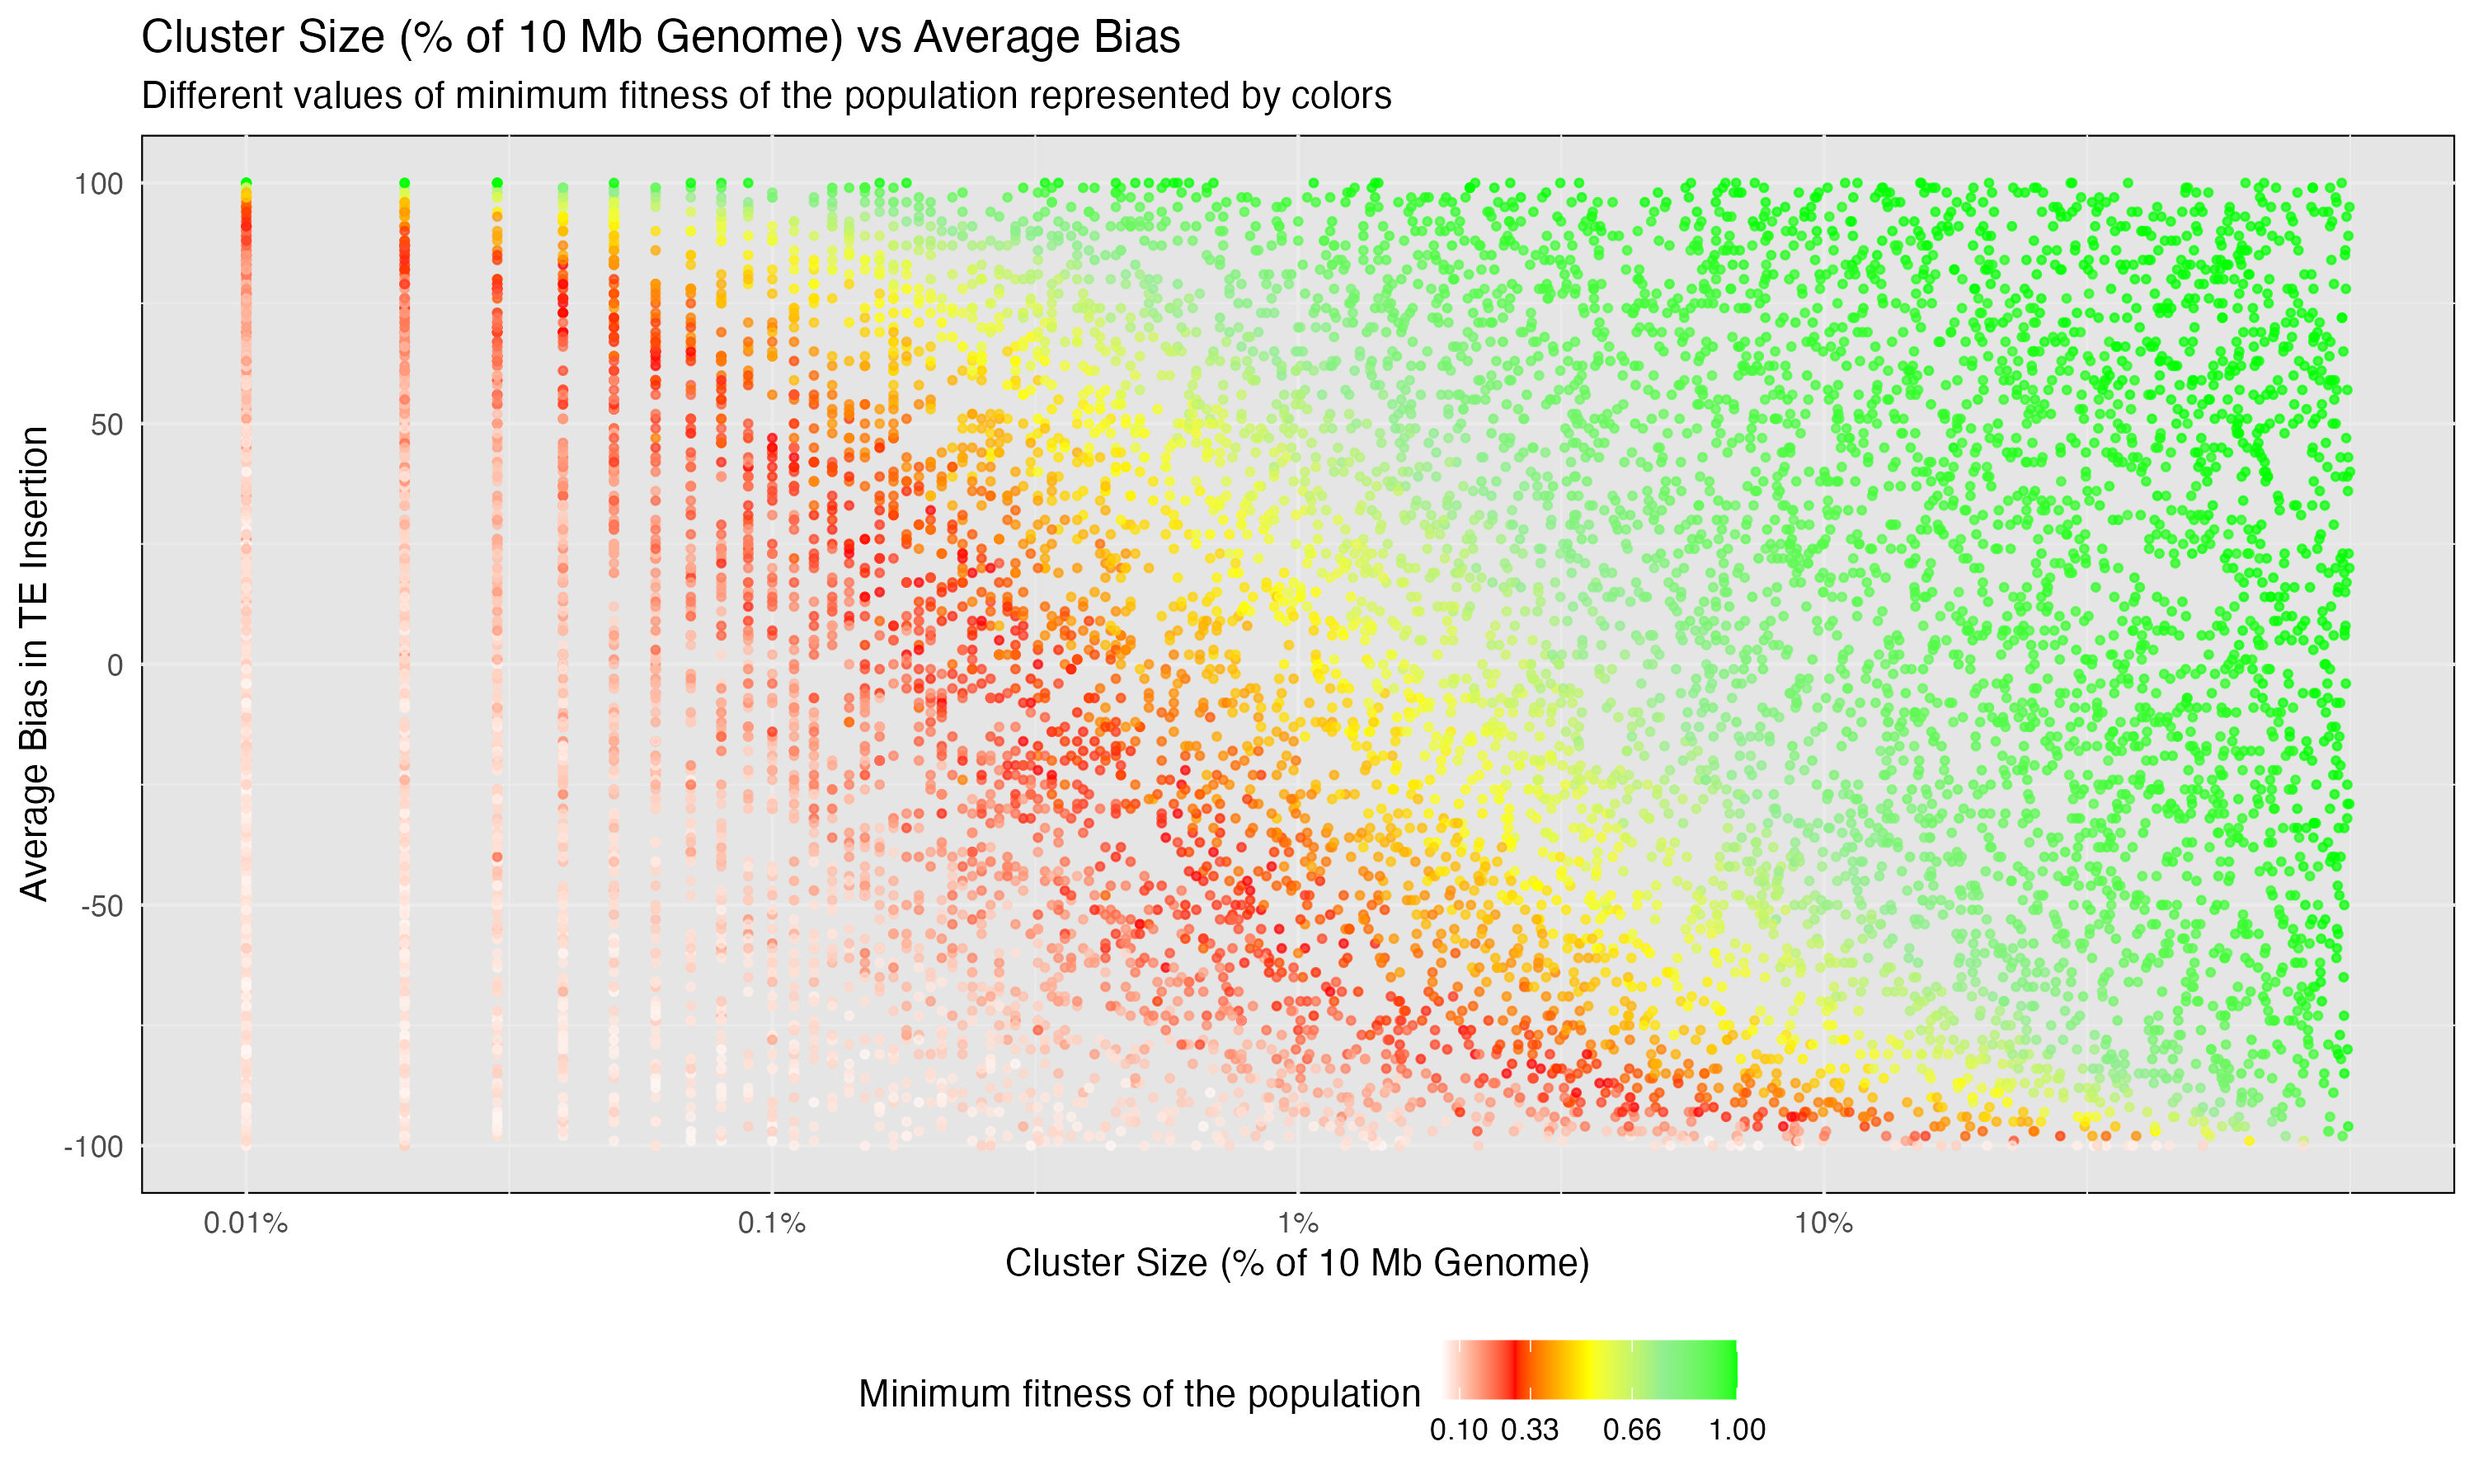
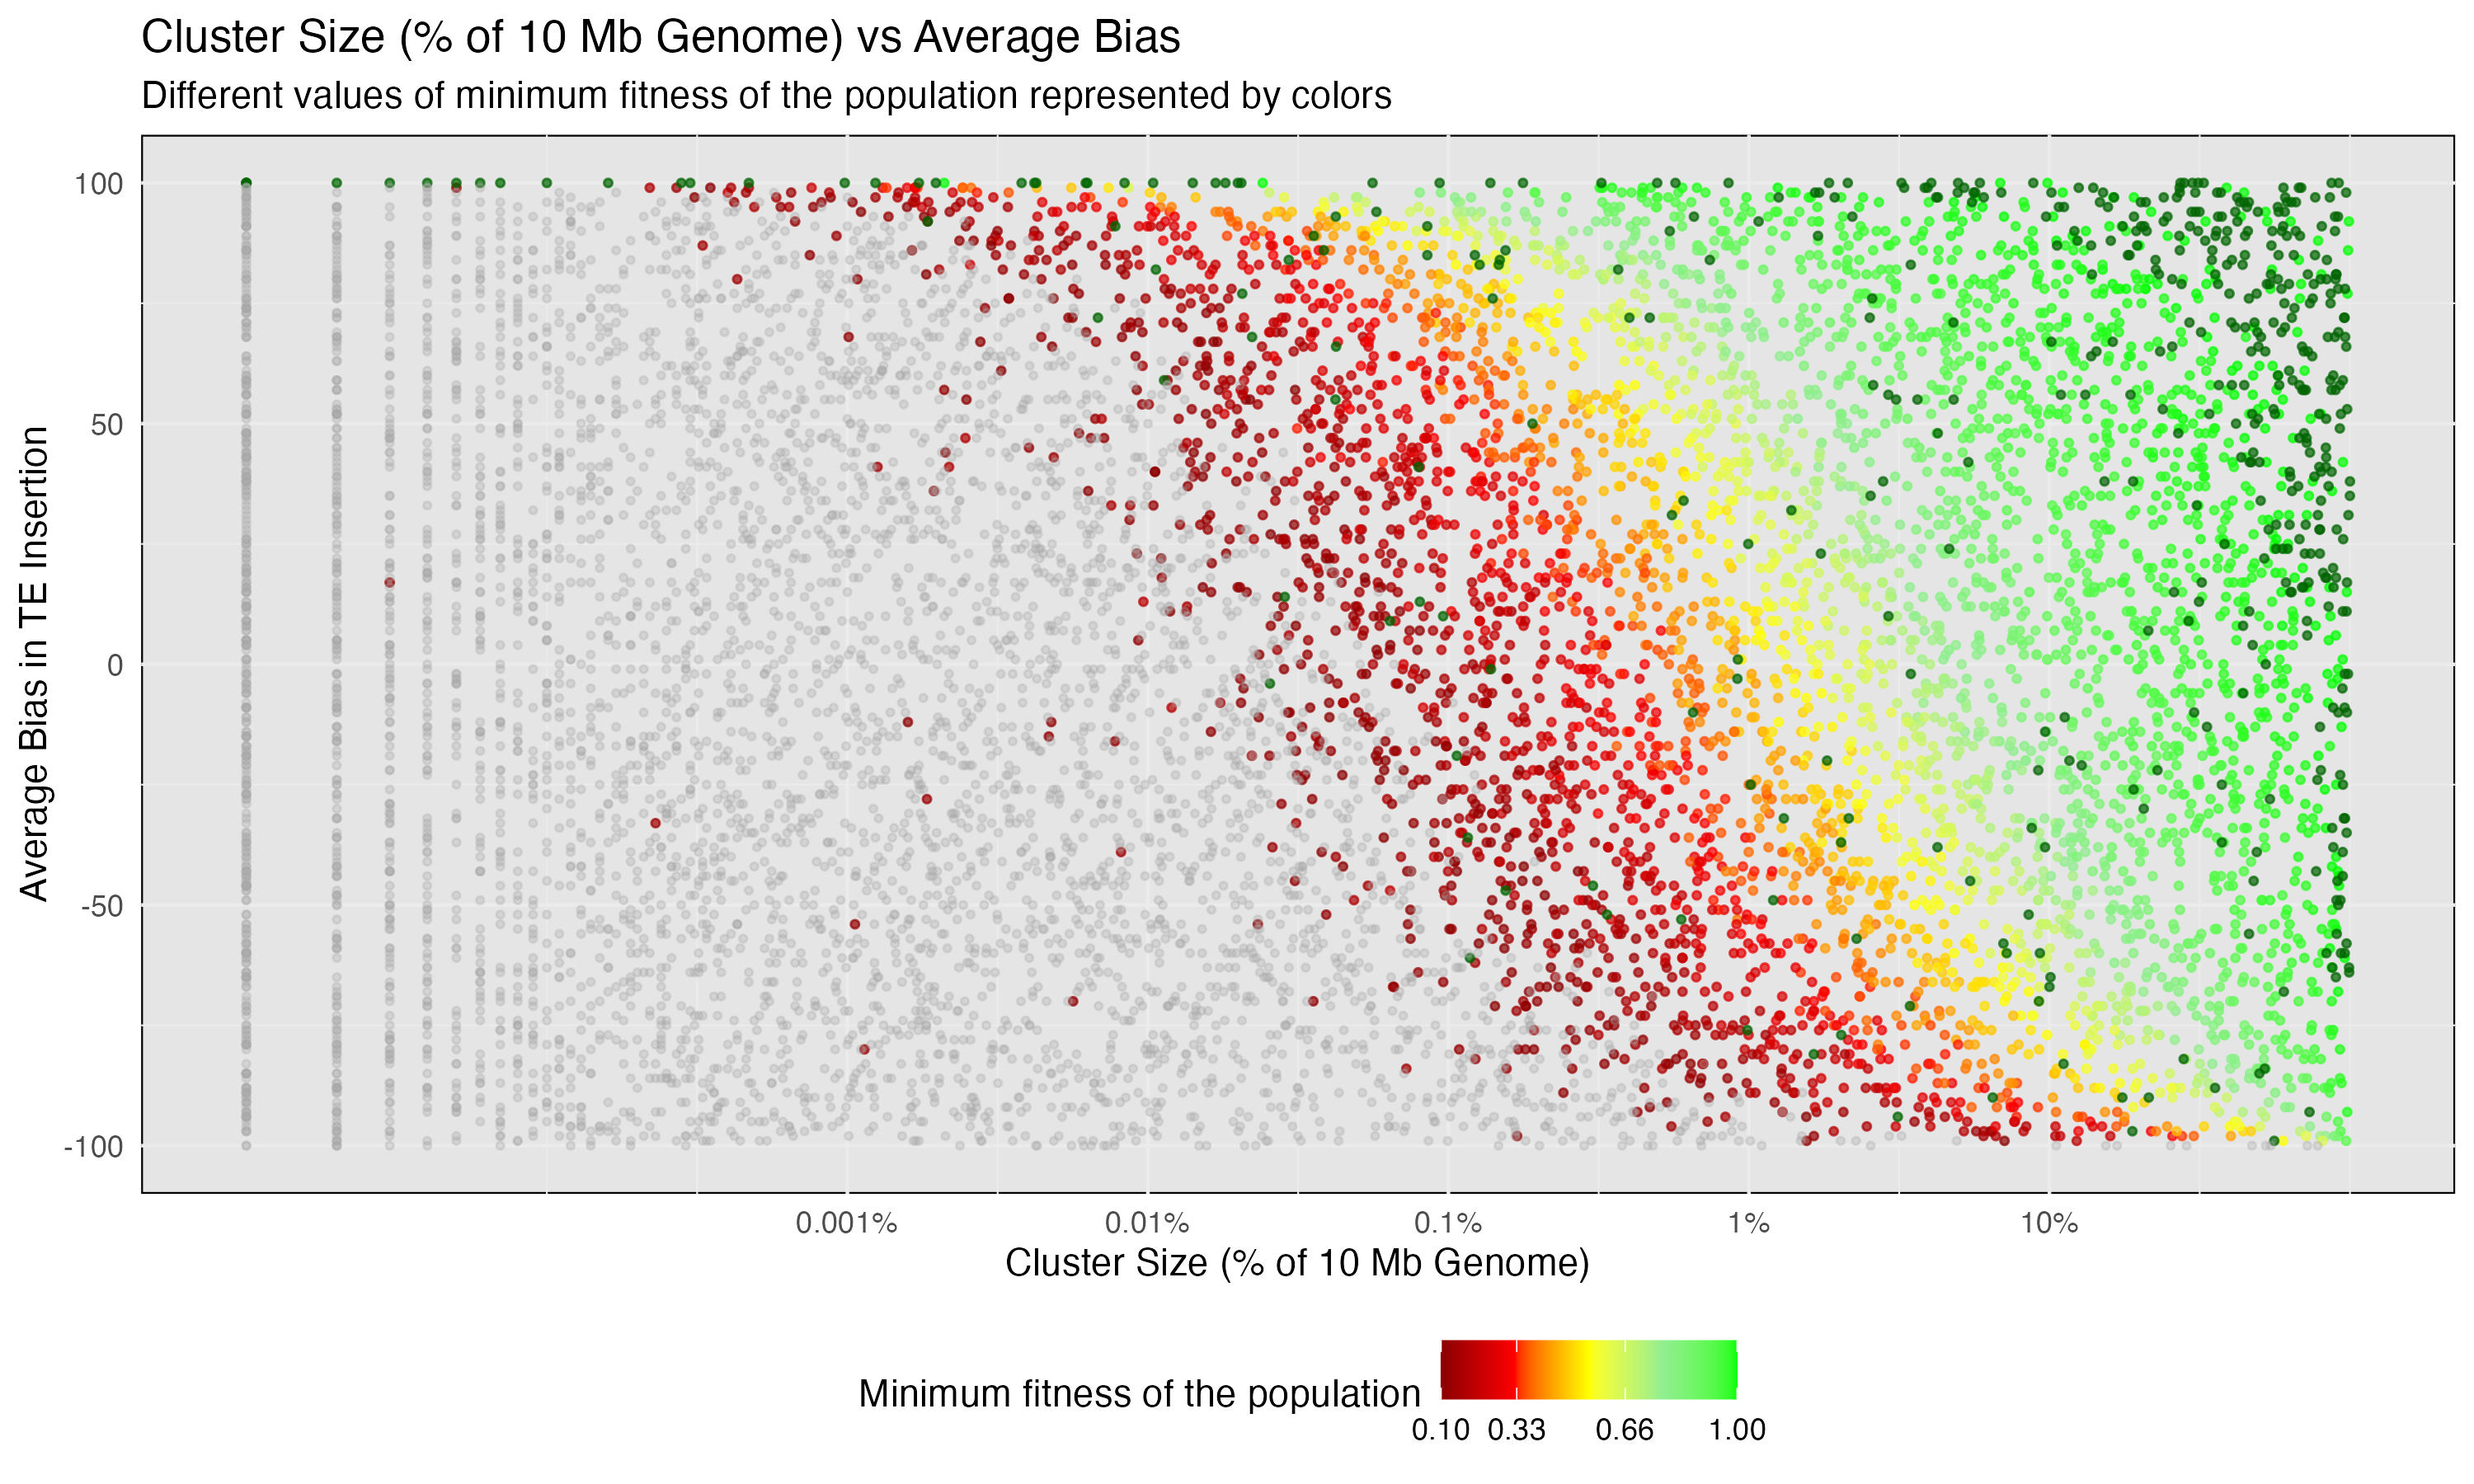
Transposition Rate

diff --git a/Minimum_Fitness.md b/Minimum_Fitness.md
@@ -1,5 +1,4 @@
 # Minimum Fitness
-
 Shashank Pritam
 
 - [<span class="toc-section-number">1</span>
@@ -11,19 +10,26 @@ Shashank Pritam
   - [<span class="toc-section-number">2.1</span> Commands for the
     simulation](#commands-for-the-simulation)
   - [<span class="toc-section-number">2.2</span> Parameters
-    ](#parameters)
+    -](#parameters--)
 - [<span class="toc-section-number">3</span> Visualization in
   R](#visualization-in-r)
-- [<span class="toc-section-number">4</span> Plotting](#plotting)
-- [<span class="toc-section-number">5</span> Explaination of the Color
+  - [<span class="toc-section-number">3.1</span> Setting the
+    environment](#setting-the-environment)
+  - [<span class="toc-section-number">3.2</span> Function to Load
+    Data](#function-to-load-data)
+  - [<span class="toc-section-number">3.3</span> ggplot function to Plot
+    Data](#ggplot-function-to-plot-data)
+  - [<span class="toc-section-number">3.4</span> Create the
+    plots](#create-the-plots)
+- [<span class="toc-section-number">4</span> Explaination of the Color
   Scheme in the Plot](#explaination-of-the-color-scheme-in-the-plot)
-  - [<span class="toc-section-number">5.1</span> Minimum fitness of the
-    population during the invasion - Continuous Variable - `min_w`
-    ](#minimum-fitness-of-the-population-during-the-invasion---continuous-variable---min_w)
-  - [<span class="toc-section-number">5.2</span> Population status -
+  - [<span class="toc-section-number">4.1</span> Minimum fitness of the
+    population during the invasion - Continuous Variable -
+    `min_w`](#minimum-fitness-of-the-population-during-the-invasion---continuous-variable---min_w)
+  - [<span class="toc-section-number">4.2</span> Population status -
     Categorical Variables -
     `popstat`](#population-status---categorical-variables---popstat)
-- [<span class="toc-section-number">6</span> Conclusion](#conclusion)
+- [<span class="toc-section-number">5</span> Conclusion](#conclusion)
 
 ## Introduction
 
@@ -42,16 +48,14 @@ The simulations were generated using the code from:
 
 - [sim_storm.py](./Simulation-Results_Files/simulation_storm/minfit/sim_storm.py)
 
-### Parameters
+### Parameters -
 
 Simulations were ran with the following parameters:
 
 - Number of simulations: 10000
 - Number of threads: 4
-- Output directory: \*/invadego/13thSep23at104054PM
-- Invade path: \*/invadego/main
 - Number of replications (–rep): 1
-- Mutation rate (–u): 0.2
+- Transposition rate (–u): Variable
 - Number of steps (–steps): 5000
 - Population size (–N): 1000
 - Number of generations (–gen): 5000
@@ -61,9 +65,10 @@ Simulations were ran with the following parameters:
 - Negative effect of a cluster insertions (-no-x-cluins, i.e, x=0)
 - Silent mode: True
 
+Random Clusters were Generated using this snippet:
 
 <details>
-<summary>Random Clusters were Generated using this snippet</summary>
+<summary>Code</summary>
 
 ``` python
 def get_rand_clusters(): 
@@ -77,129 +82,159 @@ def get_rand_clusters():
 
 ## Visualization in R
 
-<details>
+### Setting the environment
 
-<summary>Setting the environment</summary>
+<details>
+<summary>Code</summary>
 
 ``` r
-### Setting the environment
 library(tidyverse)
+```
+
+</details>
+
+    ── Attaching core tidyverse packages ──────────────────────── tidyverse 2.0.0 ──
+    ✔ dplyr     1.1.3     ✔ readr     2.1.4
+    ✔ forcats   1.0.0     ✔ stringr   1.5.0
+    ✔ ggplot2   3.4.3     ✔ tibble    3.2.1
+    ✔ lubridate 1.9.2     ✔ tidyr     1.3.0
+    ✔ purrr     1.0.2     
+    ── Conflicts ────────────────────────────────────────── tidyverse_conflicts() ──
+    ✖ dplyr::filter() masks stats::filter()
+    ✖ dplyr::lag()    masks stats::lag()
+    ℹ Use the conflicted package (<http://conflicted.r-lib.org/>) to force all conflicts to become errors
+
+<details>
+<summary>Code</summary>
+
+``` r
 library(ggplot2)
 theme_set(theme_bw())
 ```
 
 </details>
 
+### Function to Load Data
+
 <details>
-<summary>Data loading and parsing</summary>
+<summary>Code</summary>
 
 ``` r
-### Data loading and parsing
-column_names <- c("rep", "gen", "popstat", "spacer_1", "fwte", "avw", "min_w", "avtes", "avpopfreq", "fixed", "spacer_2", "phase", "fwcli", "avcli", "fixcli", "spacer_3", "avbias", "3tot", "3cluster", "spacer_4", "sampleid")
-
-df <- read_delim('./13thSep23at104054PM/combined.txt', delim='\t', col_names = column_names, show_col_types = FALSE)
-
-
-numeric_columns <- c("rep", "gen", "fwte", "avw", "min_w", "avtes", "avpopfreq", "fixed", "fwcli", "avcli", "fixcli", "avbias", "sampleid")
-df[numeric_columns] <- lapply(df[numeric_columns], as.numeric)
-
-#### Convert sampleid to % of the genome (given that genome size is 10,000 kb)
-df$sampleid_percent = (df$sampleid / 10000) * 100
-
-#### Data Preparation and Plotting
-df_gen_not0 <- df %>% filter(gen != 0)
-df_gen_0 <- df %>% filter(gen == 0)
-
-
-#### Join and fill NaN
-df_final <- left_join(df_gen_not0, df_gen_0, by = "rep", suffix = c("", "_from_gen0"))
-columns_to_fill <- c("popstat", "avbias", "sampleid", "min_w")
-for (col in columns_to_fill) {
+load_data <- function(folder_path, u_value) {
+  column_names <- c("rep", "gen", "popstat", "spacer_1", "fwte", "avw", "min_w", "avtes", "avpopfreq", "fixed", "spacer_2", "phase", "fwcli", "avcli", "fixcli", "spacer_3", "avbias", "3tot", "3cluster", "spacer_4", "sampleid")
+  
+  df <- read_delim(folder_path, delim='\t', col_names = column_names, show_col_types = FALSE)
+  numeric_columns <- c("rep", "gen", "fwte", "avw", "min_w", "avtes", "avpopfreq", "fixed", "fwcli", "avcli", "fixcli", "avbias", "sampleid")
+  df[numeric_columns] <- lapply(df[numeric_columns], as.numeric)
+  df_gen_not0 <- df %>% filter(gen != 0)
+  df_gen_0 <- df %>% filter(gen == 0)
+  
+  
+  #### Join dataframes
+  df_final <- left_join(df_gen_not0, df_gen_0, by = "rep", suffix = c("", "_from_gen0"))
+  columns_to_fill <- c("popstat", "avbias", "sampleid", "min_w")
+  for (col in columns_to_fill) {
     df_final[[col]] <- ifelse(is.na(df_final[[col]]), df_final[[paste(col, "_from_gen0", sep = "")]], df_final[[col]])
+  }
+  
+  #### Keep only the necessary columns
+  df_final <- select(df_final, rep, popstat, avbias, sampleid, min_w)
+  
+  # Calculate sampleid_percent
+  df_final$sampleid_percent <- (df_final$sampleid / 10000000) * 100
+  
+  # Filter out fail-0 and fail-w
+  df_filtered = df_final %>% filter(!popstat %in% c("fail-0", "fail-w"))
+  
+  # Add a new column for transposition rate
+  df_final$u <- u_value
+  
+  # Also add the 'u' column to df_filtered
+  df_filtered$u <- u_value
+  
+  return(list(df_final = df_final, df_filtered = df_filtered))
 }
 
-#### Keep only the necessary columns
-df_final <- select(df_final, rep, popstat, avbias, sampleid, min_w)
-
-#### Calculate sampleid_percent
-df_final$sampleid_percent <- (df_final$sampleid / 10000000) * 100
-
-### Filter out fail-0 and fail-w
-df_filtered = df_final %>% filter(!popstat %in% c("fail-0", "fail-w"))
+# Load Data from Different Folders
+df1 <- load_data('Simulation-Results_Files/simulation_storm/minfit/13thSep23at104054PM/combined.txt', 0.02)
+df2 <- load_data('Simulation-Results_Files/simulation_storm/minfit/14thSep23at113630PM/combined.txt', 0.01)
 ```
 
 </details>
 
-### Plotting
+### ggplot function to Plot Data
 
 <details>
-<summary>Plotting</summary>
+<summary>Code</summary>
 
 ``` r
-### Custom color breaks and colors for fitness
-breaks = c(0.01, 0.1, 0.33, 0.66, 1)
-colors = c("darkred", "red", "yellow", "lightgreen", "green")
-
-
-### Create a ggplot with the filtered data
-g_avbias_cluster_size <- ggplot(df_filtered, aes(x = sampleid_percent, y = avbias, color = min_w)) +
-  geom_point(alpha = 0.7, size = 0.8)
-
-### Adding back fail-0 and fail-w with specific colors
-g_avbias_cluster_size <- g_avbias_cluster_size +
-  geom_point(data = df_final %>% filter(popstat == "fail-0"), aes(x = sampleid_percent, y = avbias), color = "darkgreen", alpha = 0.7, size = 0.8) +
-  geom_point(data = df_final %>% filter(popstat == "fail-w"), aes(x = sampleid_percent, y = avbias), color = "darkgrey", alpha = 0.3, size = 0.75)
-
-### Complete the ggplot
-g_avbias_cluster_size <- g_avbias_cluster_size +
-  ylab("Average Bias in TE Insertion") +
-  xlab("Cluster Size (% of 10 Mb Genome)") +
-  labs(
-    title = "Cluster Size (% of 10 Mb Genome) vs Average Bias",
-    subtitle = "Different values of minimum fitness of the population represented by colors",
-    x = "Cluster Size (% of 10 Mb Genome)",
-    y = "Average Bias in TE Insertion"
-  ) +
-  scale_color_gradientn(
-    name = "Minimum fitness of the population",
-    breaks = breaks,
-    colors = colors
-  ) +
-  scale_x_log10(
-    breaks = c(0.001, 0.01, 0.1, 1, 10),
-    labels = c("0.001%", "0.01%", "0.1%", "1%", "10%")
-  ) +  
-  theme_minimal() +
-  theme(
-    legend.position = "bottom", 
-    panel.background = element_rect(fill = "grey90")
-  )
-
-### Display the plot
-g_avbias_cluster_size
-
+plot_data <- function(df_list) {
+  df_final = df_list$df_final
+  df_filtered = df_list$df_filtered
+  breaks <- c(0.01, 0.1, 0.33, 0.66, 1)
+  colors <- c("darkred", "red", "yellow", "lightgreen", "green")
+  plot <- ggplot(df_filtered, aes(x = sampleid_percent, y = avbias, color = min_w)) +
+    geom_point(alpha = 0.7, size = 0.8) +
+    geom_point(data = df_final %>% filter(popstat == "fail-0"), aes(x = sampleid_percent, y = avbias), color = "darkgreen", alpha = 0.7, size = 0.8) +
+    geom_point(data = df_final %>% filter(popstat == "fail-w"), aes(x = sampleid_percent, y = avbias), color = "darkgrey", alpha = 0.3, size = 0.75) +
+    ylab("Average Bias in TE Insertion") +
+    xlab("Cluster Size (% of 10 Mb Genome)") +
+    labs(
+      title = "Cluster Size (% of 10 Mb Genome) vs Average Bias",
+      subtitle = paste("Minimum Fitness by Color | Transposition rate (–u):", unique(df_final$u))
+    ) +
+    scale_color_gradientn(
+      name = "Minimum Fitness of the Population",
+      breaks = breaks,
+      colors = colors
+    ) +
+    scale_x_log10(
+      breaks = c(0.001, 0.01, 0.1, 1, 10),
+      labels = c("0.001%", "0.01%", "0.1%", "1%", "10%")
+    ) +
+    theme_minimal() +
+    theme(
+      legend.position = "bottom",
+      panel.background = element_rect(fill = "grey90")
+    ) 
+  
+  return(plot)
+}
 ```
 
 </details>
 
+### Create the plots
 
 <details>
-<summary>Save the plot</summary>
+<summary>Code</summary>
 
 ``` r
-### Save the plot
-ggsave(filename = "../../../images/minimum_fitness.jpg", plot = g_avbias_cluster_size, width = 10, height = 6)
+plot1 <- plot_data(df1)
+plot2 <- plot_data(df2)
+
+# Save the final plot
+ggsave(filename = "images/minimum_fitness_u01.jpg", plot = plot1, width = 10, height = 6)
+ggsave(filename = "images/minimum_fitness_u02.jpg", plot = plot2, width = 10, height = 6)
+
+plot1
 ```
+
 </details>
 
-### Minimum Fitness at transposition rate u = 0.02
+![](Minimum_Fitness_files/figure-commonmark/unnamed-chunk-5-1.png)
 
-![Minimum Fitness at transposition rate u = 0.02](./images/minimum_fitness.jpg)
+<details>
+<summary>Code</summary>
 
-### Minimum Fitness at transposition rate u = 0.01
+``` r
+plot2
+```
 
-![Minimum Fitness at transposition rate u = 0.01](./images/minimum_fitness_u01.jpg)
- 
+</details>
+
+![](Minimum_Fitness_files/figure-commonmark/unnamed-chunk-5-2.png)
+
 ## Explaination of the Color Scheme in the Plot
 
 The color scheme used in the plot serves to represent different

diff --git a/Simulation-Results_Files/simulation_storm/minfit/sim_storm_minm_fit.md b/Simulation-Results_Files/simulation_storm/minfit/sim_storm_minm_fit.md
@@ -114,7 +114,7 @@ theme_set(theme_bw())
 ### Data loading and parsing
 column_names <- c("rep", "gen", "popstat", "spacer_1", "fwte", "avw", "min_w", "avtes", "avpopfreq", "fixed", "spacer_2", "phase", "fwcli", "avcli", "fixcli", "spacer_3", "avbias", "3tot", "3cluster", "spacer_4", "sampleid")
 
-df <- read_delim('./14thSep23at113630PM/combined.txt', delim='\t', col_names = column_names, show_col_types = FALSE)
+df <- read_delim('./13thSep23at104054PM/combined.txt', delim='\t', col_names = column_names, show_col_types = FALSE)
 
 
 numeric_columns <- c("rep", "gen", "fwte", "avw", "min_w", "avtes", "avpopfreq", "fixed", "fwcli", "avcli", "fixcli", "avbias", "sampleid")
@@ -205,7 +205,7 @@ g_avbias_cluster_size
 
 ``` r
 ### Save the plot
-ggsave(filename = "../../../images/minimum_fitness_u01.jpg", plot = g_avbias_cluster_size, width = 10, height = 6)
+ggsave(filename = "../../../images/minimum_fitness.jpg", plot = g_avbias_cluster_size, width = 10, height = 6)
 ```
 
 </details>
